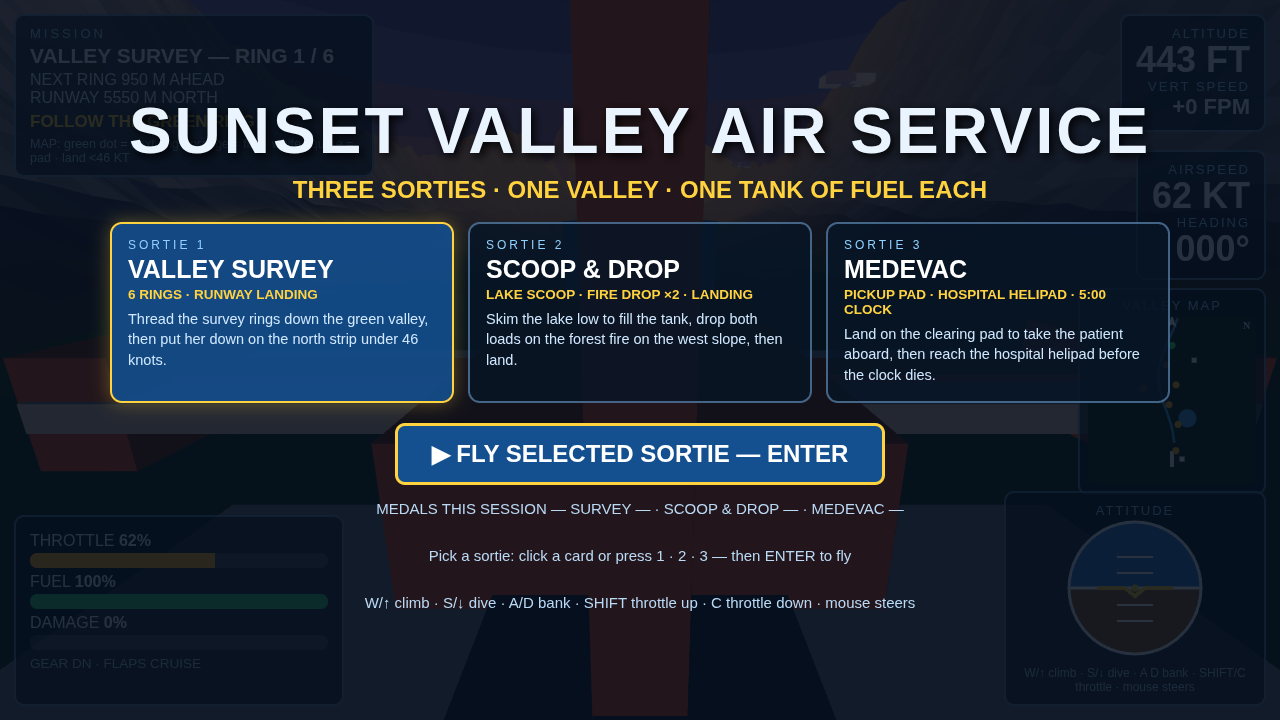
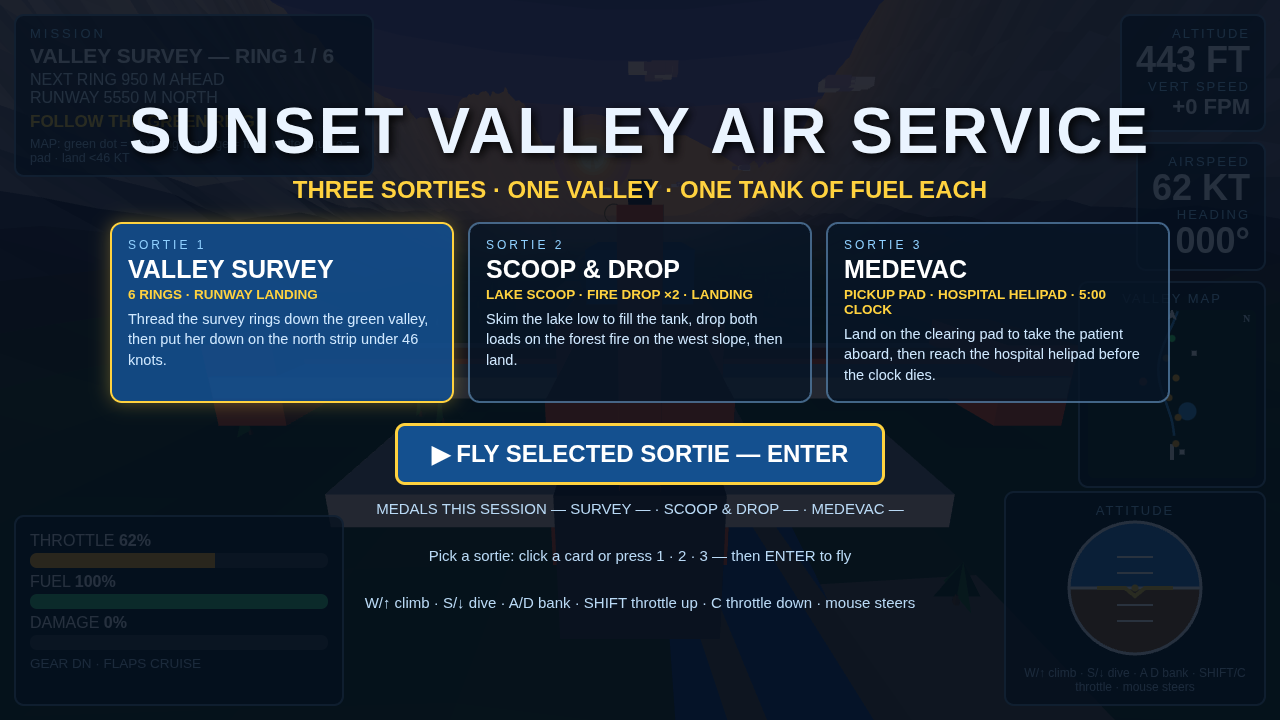
v2: HUD right column stacked (map can no longer cover HEADING), chase camera pulled back to 13.5, tapered fuselage, stronger valley asymmetry + gorge, far river swung across the cover view, pad flattening widened to span the terrain grid, medevac preset banked onto short final; screenshots Set A reg

diff --git a/game/terrain.js b/game/terrain.js
@@ -18,7 +18,7 @@ const Terrain = (() => {
   function valleyBend(z){ const f = z<-4600 ? Math.max(0, 1-(-z-4600)/500) : 1;
     return (150*Math.sin(z*0.00052)+80*Math.sin(z*0.00127+1.7)) * f; }
   function riverX(z){ return valleyBend(z)*0.55 + 90*Math.sin(z*0.0011)+40*Math.sin(z*0.00037); }
-  function river2X(z){ return 215 + 55*Math.sin(z*0.0021); } // the far reach, beyond the runway
+  function river2X(z){ return 55 + 95*Math.sin(z*0.0021); } // the far reach, beyond the runway (v2: swings right across the view axis past the strip, so the winding river reads in the cover)
   function fbm(x,z){ return noise(x,z)*0.60 + noise(x*2.7,z*2.7)*0.28 + noise(x*6.3,z*6.3)*0.12; }
   // Full plateau |x|<100: every terrain grid vertex under the strip sits at
   // exactly h=10, so the strip mesh and its markings are never buried.
@@ -26,13 +26,19 @@ const Terrain = (() => {
   function heightAt(x,z){
     const bx = x - valleyBend(z);
     const ax=Math.abs(bx);
-    const side = bx<0 ? 1.22 : 0.80; // west range higher than east: no symmetric bowl
+    const side = bx<0 ? 1.38 : 0.68; // west range much higher than east (v2: stronger asymmetry, no symmetric bowl)
     const jag = 0.72 + 0.55*Math.abs(noise(x/150, z/150)) + 0.30*Math.abs(noise(x/47, z/47));
     const m = Math.max(0,(ax-330)/620);
-    let h = 6 + noise(x,z)*7 + (m**2*185 + Math.max(0,(ax-700)/500)**2*150) * side * jag;
+    // Longitudinal ridge variation: the ranges swell and pinch along their
+    // length instead of forming one uniform bowl rim.
+    const swell = 0.82 + 0.38*Math.abs(noise(z/330, 7.3)) + 0.22*Math.abs(noise(x/90, z/90));
+    let h = 6 + noise(x,z)*7 + (m**2*185 + Math.max(0,(ax-700)/500)**2*150) * side * jag * swell;
     h += m * fbm(x, z) * 60; // heightmap-noise rolling mountain surface
     h += Math.max(0,(-z-4300)/900)**2*35;
-    if (z<-5650) h += Math.min(150, (-z-5650)/6) * (0.45+0.75*Math.max(0,fbm(x+900, z))); // broken, off-centre valley head
+    // Valley head: high and broken at the sides, but pinched to a low gorge
+    // on the axis (v2), so the far river stays visible past the strip.
+    if (z<-5650){ const gorge = Math.min(1, Math.max(0.22, (Math.abs(bx)-170)/260));
+      h += Math.min(150, (-z-5650)/6) * (0.45+0.75*Math.max(0,fbm(x+900, z))) * gorge; }
     const rd = Math.abs(x-riverX(z));
     if (rd<46 && Math.abs(bx)<380 && z>-4900) h = Math.min(h, 1.5); // river channel
     const lake = ((x-230)/190)**2 + ((z+3750)/230)**2;
@@ -41,10 +47,13 @@ const Terrain = (() => {
     if (z<-5760 && z>-6180 && Math.abs(x-river2X(z))<42) h = Math.min(h, 2.0); // far river channel
     // Medevac pads sit dead flat: the clearing pad at the valley floor's own
     // height, the hospital pad at airfield height beside the strip.
+    // v2: the flat radius must span several 60 m terrain-grid cells, or the
+    // pad mesh (drawn at the flat height) sinks under the un-flattened
+    // surface between grid vertices and can never be seen.
     const pd1 = Math.hypot(x-330, z+1400);
-    if (pd1<24) h = Math.min(h, 6); else if (pd1<38) h = Math.min(h, 6+(pd1-24)*0.5);
+    if (pd1<45) h = Math.min(h, 6); else if (pd1<85) h = Math.min(h, 6+(pd1-45)*0.35);
     const pd2 = Math.hypot(x-150, z+5400);
-    if (pd2<24) h = 10; else if (pd2<38) h = h*(pd2-24)/14 + 10*(1-(pd2-24)/14);
+    if (pd2<45) h = 10; else if (pd2<85) h = h*(pd2-45)/40 + 10*(1-(pd2-45)/40);
     return h;
   }
   // Height-gradient palette in one sunset family:
@@ -83,10 +92,11 @@ const Terrain = (() => {
       b.quad([cx-26,wy-0.5,z],[cx2-26,wy-0.5,z-40],[cx2+26,wy-0.5,z-40],[cx+26,wy-0.5,z],bank);
       b.quad([cx-15,wy,z],[cx2-15,wy,z-40],[cx2+15,wy,z-40],[cx+15,wy,z],water);
     }
-    // The far reach, beyond the runway's far end.
-    for(let z=-5780; z>-6140; z-=40){ const cx=river2X(z), cx2=river2X(z-40);
-      b.quad([cx-26,2.1,z],[cx2-26,2.1,z-40],[cx2+26,2.1,z-40],[cx+26,2.1,z],[0.72,0.60,0.40]);
-      b.quad([cx-15,2.6,z],[cx2-15,2.6,z-40],[cx2+15,2.6,z-40],[cx+15,2.6,z],[0.12,0.42,0.80]); }
+    // The far reach, beyond the runway's far end (v2: wider and a brighter
+    // blue, so the winding river survives the cover's thumbnail test).
+    for(let z=-5700; z>-6140; z-=40){ const cx=river2X(z), cx2=river2X(z-40);
+      b.quad([cx-38,2.1,z],[cx2-38,2.1,z-40],[cx2+38,2.1,z-40],[cx+38,2.1,z],[0.72,0.60,0.40]);
+      b.quad([cx-26,2.6,z],[cx2-26,2.6,z-40],[cx2+26,2.6,z-40],[cx+26,2.6,z],[0.16,0.52,0.95]); }
     // Lake: flat disc + shore ring at the lake centre.
     { const lx=230, lz=-3750, SEG2=22;
       for(let i=0;i<SEG2;i++){ const a1=i/SEG2*Math.PI*2, a2=(i+1)/SEG2*Math.PI*2;

diff --git a/game/main.js b/game/main.js
@@ -171,7 +171,7 @@ function frame(){
 // ---- demo / seed presets for deterministic screenshots ----
 function applyPreset(name){
   if (name==='cover'||name==='runway'||name==='results'||name==='title') Missions.select('survey');
-  if (name==='cover'){ plane.pos=[6,140,-4780]; plane.heading=-0.01; plane.pitch=0.0; plane.speed=60; plane.throttle=0.50;
+  if (name==='cover'){ plane.pos=[10,168,-4360]; plane.heading=-0.01; plane.pitch=0.06; plane.speed=60; plane.throttle=0.50;
     for(let i=0;i<5;i++) Missions.rings[i].passed=true; Missions.state.ringsPassed=5;
     Fuel.set(54); Damage.set(9); screen='fly';
     // Poster treatment: closer chase camera (bigger plane), enlarged HUD
@@ -193,7 +193,10 @@ function applyPreset(name){
     Fuel.set(61); Damage.set(4); screen='fly'; }
   else if (name==='medevac'){ Missions.select('medevac'); Missions.state.stage='deliver'; Missions.state.patient=true;
     Missions.state.timeLeft=142;
-    plane.pos=[90,60,-5050]; plane.heading=-0.05; plane.pitch=-0.05; plane.speed=44; plane.throttle=0.3;
+    // v2: on short final, offset west of the pad centreline so the hospital
+    // pad and its white cross show beside the plane, not hidden behind it.
+    plane.pos=[122,50,-5338]; plane.heading=0.10; plane.pitch=-0.10; plane.speed=42; plane.throttle=0.3;
+    plane.roll=0.38; // banked onto final: the tilt uncovers the pad beside the fuselage
     Fuel.set(47); Damage.set(12); screen='fly'; }
   Camera.reset(plane.pos); showScreen();
 }

diff --git a/game/style.css b/game/style.css
@@ -8,12 +8,16 @@
 #ringinfo,#distinfo{font-size:16px;color:#cfe8ff}
 #callout{font-size:17px;font-weight:bold;color:#ffd23f;margin-top:5px}
 .legend{font-size:12.5px;color:#9fc6ea;margin-top:5px}
-#left-panel{top:14px;right:14px;text-align:right}
-#right-panel{top:150px;right:14px;text-align:right}
+/* The three right-side readouts live in one flex column, so the stack can
+   never overlap: the VALLEY MAP panel always starts below the HEADING line,
+   however tall the readout panels grow (poster mode included). */
+#right-col{position:absolute;top:14px;right:14px;display:flex;flex-direction:column;gap:10px;align-items:flex-end}
+#left-panel{position:static;text-align:right}
+#right-panel{position:static;text-align:right}
 .label{font-size:13px;letter-spacing:2px;color:#8fd0ff}
 .big{font-size:36px;font-weight:bold;line-height:1.05}
 .mid{font-size:22px;font-weight:bold}
-#map-panel{top:288px;right:14px;text-align:center;padding:8px}
+#map-panel{position:static;text-align:center;padding:8px}
 #minimap{display:block;margin-top:4px;border-radius:6px}
 #sys-panel{bottom:14px;left:14px;width:330px;font-size:16px}
 #sys-panel .row{margin:5px 0}

diff --git a/game/camera.js b/game/camera.js
@@ -4,12 +4,14 @@
 'use strict';
 const Camera = (() => {
   const pos=[0,130,260], look=[0,120,0];
-  let dist=10.0; // chase distance; the poster cover preset pulls it in closer
+  let dist=13.5; // chase distance (v2: pulled back so the plane sits smaller
+  // in frame and more of the valley reads around it); the poster cover
+  // preset pulls it in closer on purpose
   function setDist(d){ dist=d; }
-  function reset(p){ pos[0]=p[0]; pos[1]=p[1]+3.0; pos[2]=p[2]+dist; }
+  function reset(p){ pos[0]=p[0]; pos[1]=p[1]+3.6; pos[2]=p[2]+dist; }
   function update(plane, dt){
     const back=[Math.sin(plane.heading),0,-Math.cos(plane.heading)];
-    const want=[plane.pos[0]-back[0]*dist, plane.pos[1]+3.0+plane.pitch*8, plane.pos[2]-back[2]*dist];
+    const want=[plane.pos[0]-back[0]*dist, plane.pos[1]+3.6+plane.pitch*8, plane.pos[2]-back[2]*dist];
     const k=1-Math.pow(0.0018, dt); // frame-rate independent smoothing
     for(let i=0;i<3;i++) pos[i]+=(want[i]-pos[i])*k;
     const fwd=[Math.sin(plane.heading)*Math.cos(plane.pitch), Math.sin(plane.pitch), -Math.cos(plane.heading)*Math.cos(plane.pitch)];

diff --git a/game/aircraft.js b/game/aircraft.js
@@ -7,7 +7,11 @@ const Aircraft = (() => {
   function build(){
     const b=Render.builder();
     const body=[0.98,0.32,0.10], dark=[0.22,0.20,0.24], cream=[1.0,0.94,0.84], glass=[0.20,0.55,0.90];
-    b.box(0,0,0.6, 1.5,1.5,5.2, body);            // fuselage
+    // Fuselage in three stepped, tapering segments (v2: a smoother,
+    // rounded-off silhouette than the single v1 slab, same overall size).
+    b.box(0,0,2.2, 1.15,1.15,1.9, body);           // rear fuselage (narrowest)
+    b.box(0,0,0.5, 1.5,1.5,2.2, body);             // mid fuselage
+    b.box(0,0.05,-1.2, 1.32,1.32,1.6, body);       // front fuselage (tapered)
     b.box(0,0.15,-2.4, 1.1,1.1,1.8, body);          // nose cowling
     b.box(0,0.95,-0.4, 1.15,0.75,1.9, glass);       // canopy
     b.box(0,0,0.4, 8.6,0.22,1.5, cream);            // main wing

diff --git a/game/index.html b/game/index.html
@@ -14,6 +14,7 @@
     <div id="callout">FOLLOW THE GREEN RING</div>
     <div class="legend">MAP: green dot = next ring · orange = fire · white square = pad · land &lt;46 KT</div>
   </div>
+  <div id="right-col">
   <div class="panel" id="left-panel">
     <div class="label">ALTITUDE</div><div class="big" id="alt">0 FT</div>
     <div class="label">VERT SPEED</div><div class="mid" id="vspeed">+0 FPM</div>
@@ -25,6 +26,7 @@
   <div class="panel" id="map-panel">
     <div class="label center">VALLEY MAP</div>
     <canvas id="minimap" width="168" height="168"></canvas>
+  </div>
   </div>
   <div class="panel" id="sys-panel">
     <div class="row"><span>THROTTLE <b id="thrval">0%</b></span><div class="bar"><div id="thrbar"></div></div></div>
